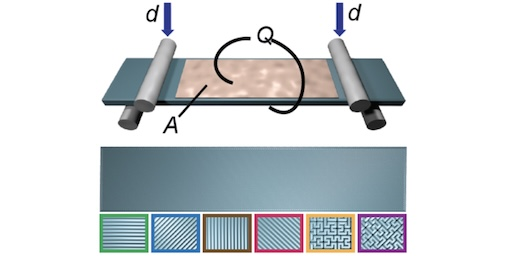
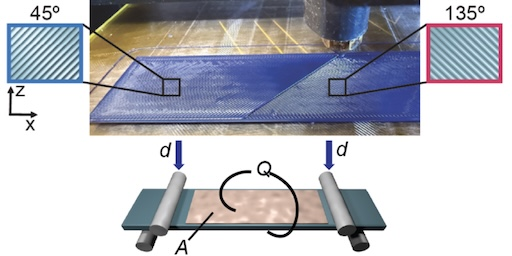
Updates

diff --git a/styles.css b/styles.css
@@ -1,37 +1,26 @@
 body {
     margin: 5% auto;
-    background: #f2f2f2;
-    color: #444444;
+    background: #f3f6fb;
+    color: #2f343b;
     font-family: -apple-system, BlinkMacSystemFont, "Segoe UI", Roboto, Helvetica, Arial, sans-serif;
     font-size: 16px;
-    text-shadow: 0 1px 0 #ffffff;
     max-width: 750px;
     min-width: 300px;
 }
 
 a {
-    border-bottom: 1px solid #444444;
-    color: #444444;
+    border-bottom: 1px solid #1f77b4;
+    color: #1f77b4;
     text-decoration: none;
 }
 
 a:hover {
-    color: #9e5457;
-    border-bottom-color: #9e5457;
-}
-
-header a {
-    border-bottom: 1px solid #9e5457;
-    color: #9e5457;
-}
-
-header a:hover {
-    color: #9e5457;
+    color: #1f77b4;
     border-bottom: none;
 }
 
 header p {
-    line-height: 1.8;
+    line-height: 1.6;
     padding-left: 10px;
     padding-right: 10px;
 }
@@ -39,7 +28,7 @@ header p {
 hr {
     border: none;
     height: 1px;
-    background: linear-gradient(to right, transparent, #444444, transparent);
+    background: linear-gradient(to right, transparent, #2f343b, transparent);
     margin: 20px 0;
 }
 
@@ -50,7 +39,7 @@ hr {
 .profile-image {
     width: 150px;
     border-radius: 50%;
-    border: 2px solid #444444;
+    border: 2px solid #2f343b;
     box-shadow: 0px 3px 5px 0px rgba(0, 0, 0, 0.5);
 }
 
@@ -75,10 +64,6 @@ hr {
 .content-text-container h5,
 .content-text-container p {
     margin: 0;
-}
-
-h5 {
-    color: #9e5457;
 }
 
 h2 {

diff --git a/index.html b/index.html
@@ -24,8 +24,9 @@
         </div>
         <p>I am a fifth-year PhD candidate in Computer Science at Boston University, where I am
             a member of the <a href="https://shape.bu.edu">Shape Design & Computation Lab</a> advised by <a
-                href="https://cs-people.bu.edu/whiting/">Emily Whiting</a>. My research leverages Machine
-            Learning and Computational Mechanics to design structures and materials with optimized behaviors.</p>
+                href="https://cs-people.bu.edu/whiting/">Emily Whiting</a>. I am interested in designing structures and
+            architected materials with tailored physical behavior by integrating machine learning, computational
+            mechanics, and digital fabrication.</p>
         <p>Before starting my PhD, I obtained a Master's in Computer Science from Columbia University, where I worked
             with <a href="https://ceal.cs.columbia.edu/people/">Brian A. Smith</a>, and a Bachelor's in Computer Science
             from the University of Massachusetts Amherst.</p>
@@ -71,7 +72,7 @@
             <h5>3D Printing and Additive Manufacturing (2025)</h5>
             <p><a href="assets/pdf/Silverman-DataDrivenNonlinear.pdf" type="application/pdf">PDF (7.9 MB)</a>,
                 <a href="assets/pdf/Silverman-DataDrivenNonlinear-Supplemental.pdf" type="application/pdf">Supplemental
-                    (2 MB)</a>, <a href="">Code (Coming soon)</a>, <a
+                    (2 MB)</a>, <a href="https://github.com/samsilverman/nonlinear-deformation-design">Code</a>, <a
                     href="assets/bibtex/Silverman-DataDrivenNonlinear.txt" type="text/plain">BibTeX</a>
             </p>
         </div>